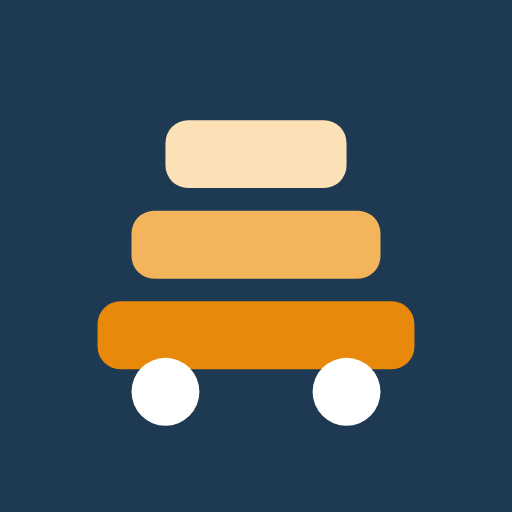
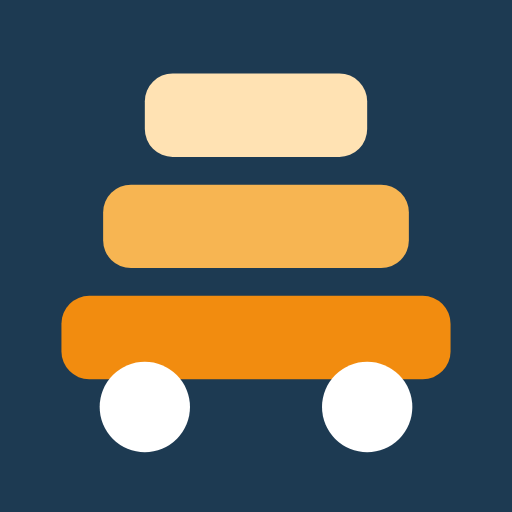
v11: 홈 화면 아이콘·파비콘 로고를 크게, 상단 로고 48px
Claude-Session: https://claude.ai/code/session_01TnEd5uyuThRq5EdHEdL511

Changed region(s): [[0.0938, 0.125, 0.9062, 0.9062]]

diff --git a/index.html b/index.html
@@ -22,7 +22,7 @@
 <body>
 <div class="wrap">
   <header class="top">
-    <div class="brand"><span class="logo" aria-hidden="true"><svg width="26" height="26" viewBox="0 0 76 76"><rect x="10" y="48" width="56" height="12" rx="4" fill="#e8890c"/><rect x="16" y="32" width="44" height="12" rx="4" fill="#f4b45c"/><rect x="22" y="16" width="32" height="12" rx="4" fill="#fde1b6"/><circle cx="22" cy="64" r="6" fill="#fff"/><circle cx="54" cy="64" r="6" fill="#fff"/></svg></span><span>차곡차곡<small id="carName">내 차</small></span></div>
+    <div class="brand"><img class="logo" src="logo.svg" alt="" width="48" height="48"><span>차곡차곡<small id="carName">내 차</small></span></div>
     <div class="right"><button class="plate" id="plateBtn" type="button" aria-label="차량 정보 수정">00가 0000</button><button class="acct" id="acctBtn" type="button" aria-label="구글 로그인"></button></div>
   </header>
   <div class="chips" id="carChips" role="group" aria-label="차량 선택"></div>
@@ -32,7 +32,7 @@
     <button class="btn" id="clearSample" type="button">예시 지우기</button>
   </div>
   <main id="view"></main>
-  <footer>© 2026 티제이컴퍼니. All rights reserved. · <span id="appVer">v10</span></footer>
+  <footer>© 2026 티제이컴퍼니. All rights reserved. · <span id="appVer">v11</span></footer>
 </div>
 
 <button class="fab" id="fab" type="button">+ 기록</button>

diff --git a/style.css b/style.css
@@ -28,8 +28,8 @@ body{background:var(--bg);color:var(--fg);font-family:var(--sans);font-size:15px
 .wrap{max-width:560px;margin:0 auto;padding-left:max(16px,env(safe-area-inset-left,0px));padding-right:max(16px,env(safe-area-inset-right,0px));padding-block:14px 120px}
 .num{font-family:var(--mono);font-variant-numeric:tabular-nums}
 header.top{display:flex;align-items:center;justify-content:space-between;gap:12px;margin-bottom:12px}
-.brand{font-weight:700;font-size:21px;letter-spacing:-.03em;display:flex;align-items:center;gap:10px}
-.brand .logo{width:38px;height:38px;border-radius:10px;background:#1d3a52;display:grid;place-items:center;flex:none}
+.brand{font-weight:700;font-size:23px;letter-spacing:-.03em;display:flex;align-items:center;gap:12px}
+.brand .logo{width:48px;height:48px;border-radius:12px;flex:none;display:block;box-shadow:0 2px 6px rgba(29,58,82,.25)}
 .brand small{display:block;font-size:12px;font-weight:500;color:var(--muted);letter-spacing:0}
 .plate{font-family:var(--mono);font-size:13px;border:1.5px solid var(--fg);border-radius:6px;padding:2px 8px;white-space:nowrap}
 .banner{background:var(--accent-soft);border-radius:10px;padding:10px 12px;font-size:13px;display:flex;gap:10px;align-items:center;justify-content:space-between;margin-bottom:12px}

diff --git a/sw.js b/sw.js
@@ -2,8 +2,8 @@
    - 같은 주소(taichen2k.github.io)의 다른 앱(할수있어·티끌모아·정수리캠)을 건드리지 않음:
      /chagok/ 폴더 요청만 처리, 'chagok-'로 시작하는 보관 파일만 지움
    - 알림(push)은 다루지 않음 — 할수있어 알림과 섞이지 않게 */
-const CACHE='chagok-v10';
-const SHELL=['./','./index.html','./style.css','./app.js','./firebase-config.js','./manifest.webmanifest','./favicon.svg','./icon-192.png',
+const CACHE='chagok-v11';
+const SHELL=['./','./index.html','./style.css','./app.js','./firebase-config.js','./manifest.webmanifest','./favicon.svg','./logo.svg','./icon-192.png',
   './fonts/Pretendard-Regular.subset.woff2','./fonts/Pretendard-Medium.subset.woff2','./fonts/Pretendard-SemiBold.subset.woff2','./fonts/Pretendard-Bold.subset.woff2'];
 self.addEventListener('install',e=>{e.waitUntil(caches.open(CACHE).then(c=>c.addAll(SHELL)).catch(()=>{}).then(()=>self.skipWaiting()))});
 self.addEventListener('activate',e=>{e.waitUntil(caches.keys().then(ks=>Promise.all(ks.filter(k=>k.startsWith('chagok-')&&k!==CACHE).map(k=>caches.delete(k)))).then(()=>self.clients.claim()))});

diff --git a/app.js b/app.js
@@ -1,7 +1,7 @@
 
 /* 차곡차곡 — © 2026 티제이컴퍼니. 개발·버전 이력: 기획요건.md
    같은 주소(taichen2k.github.io)의 다른 앱과 섞이지 않게 저장 이름은 모두 chagok. 으로 시작 */
-const APP_VERSION='v10';
+const APP_VERSION='v11';
 const KEY='chagok.data';
 function lsGet(k){try{return localStorage.getItem(k)}catch(e){return null}}
 function lsSet(k,v){try{localStorage.setItem(k,v)}catch(e){}}

diff --git a/기획요건.md b/기획요건.md
@@ -1,7 +1,7 @@
 # 차곡차곡 기획요건
 
 차량 관리(차계부) 모바일 웹앱 · © 2026 티제이컴퍼니. All rights reserved.
-문서 갱신: 2026-10-28 · 현재 버전 **v10**
+문서 갱신: 2026-10-28 · 현재 버전 **v11**
 
 앱 주소: **https://taichen2k.github.io/chagok/** · 코드: github.com/taichen2k/chagok · Firebase 프로젝트: chagok-8ec44
 
@@ -16,7 +16,7 @@
 | 사용자 | 태진 본인 + 가족 (집 차량 2대) |
 | 형태 | 모바일 웹앱(PWA) — 홈 화면 설치, PC에서도 사용 |
 | 글꼴 | 프리텐다드 (앱 안에 내장) |
-| 로고 | 블록이 차곡차곡 쌓이고 아래 바퀴 두 개 (남색 바탕, 주황 계열 블록) |
+| 로고 | 블록이 차곡차곡 쌓이고 아래 바퀴 두 개 (남색 바탕, 주황 계열 블록). 아이콘 안에 그림을 크게 채움 (일반 76%, 안드로이드 원형 64%, 파비콘 86%) |
 | 저작권 표기 | 화면 맨 아래 한 줄: `© 2026 티제이컴퍼니. All rights reserved. · v번호` |
 
 ### 시장 조사 요약
@@ -123,6 +123,10 @@
 ## 4. 버전 이력
 
 > 수정할 때마다 번호를 1씩 올리고, 여기 맨 위에 추가해요.
+
+### v11 — 2026-10-28
+- 홈 화면 아이콘·파비콘의 로고 그림을 크게 키워 눈에 잘 띄게 (안드로이드 원형 안에서도 잘리지 않게)
+- 앱 상단 로고를 38px → 48px로 키우고 앱 이름 글씨도 키움
 
 ### v10 — 2026-10-28
 - 깃허브(taichen2k.github.io/chagok) 정식 앱으로 첫 배포
